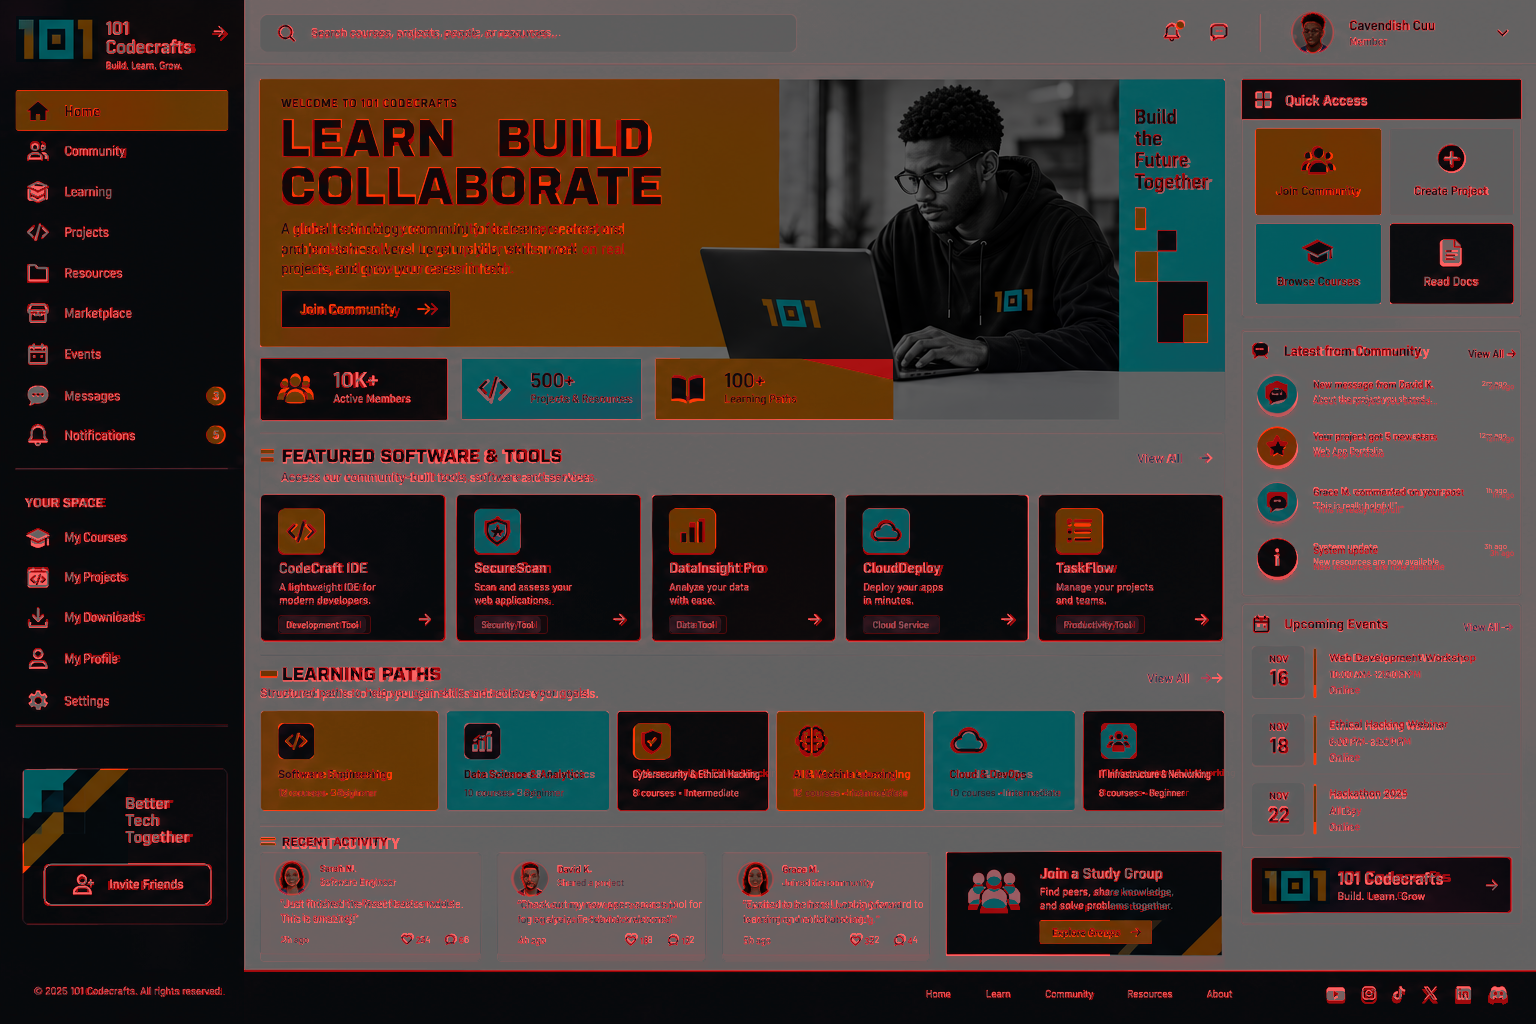
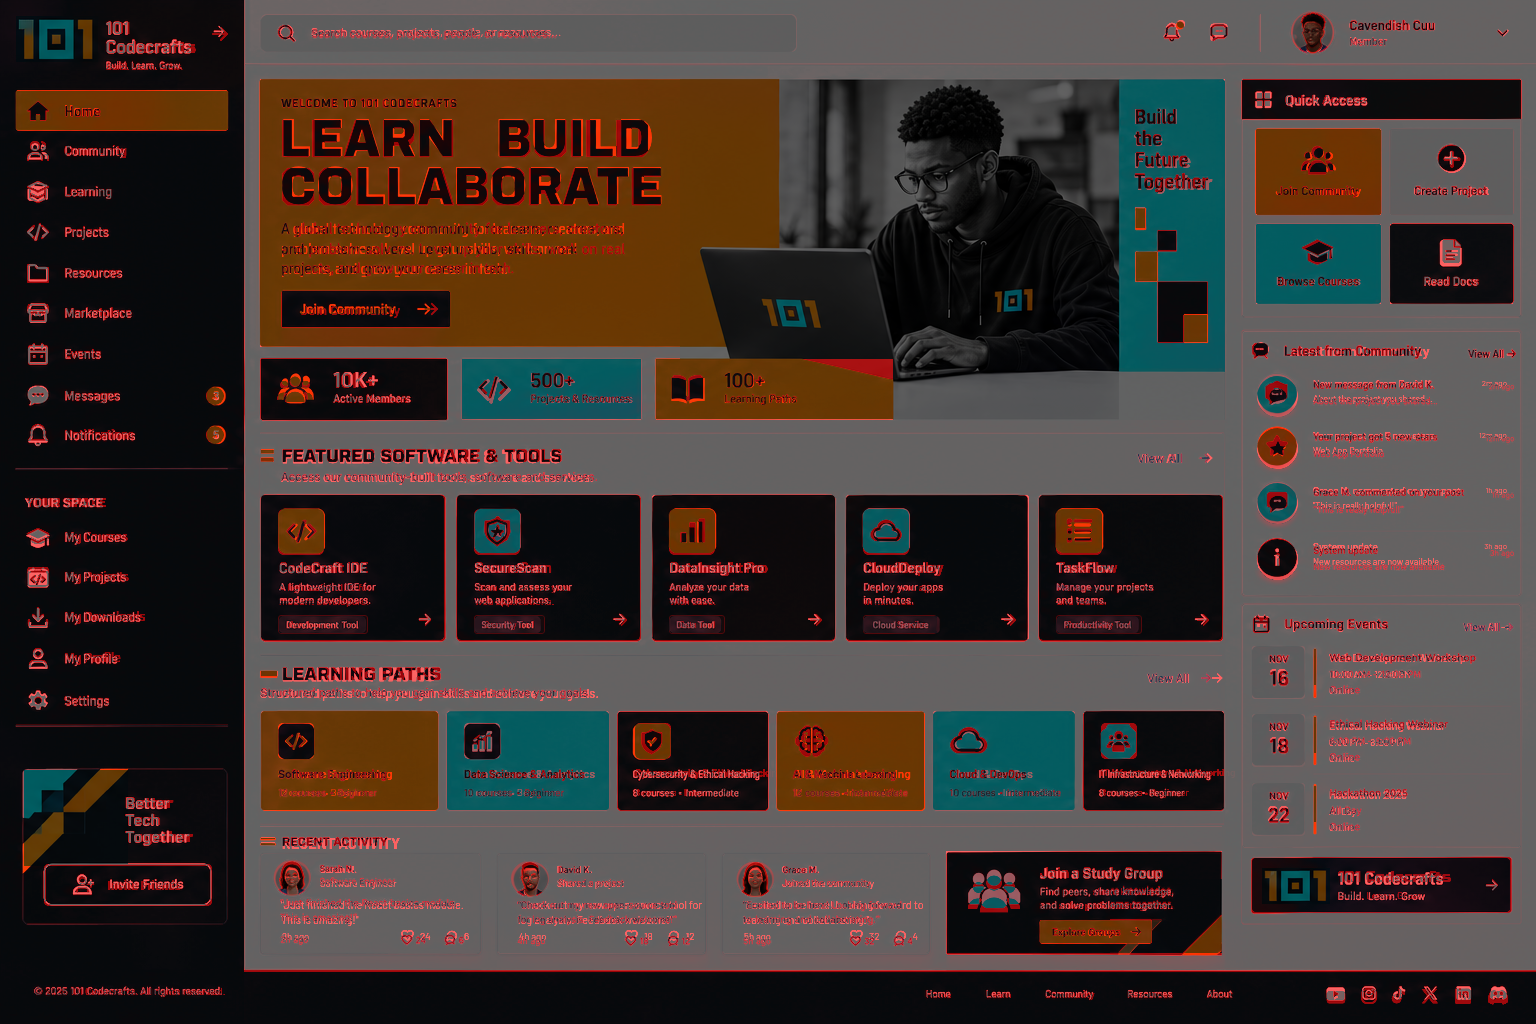
Dashboard round 7: page background + activity card geometry (SSIM 0.8169)

diff --git a/css/dashboard.css b/css/dashboard.css
@@ -1,5 +1,5 @@
 /* Members dashboard — laid out on the 1536x1024 mockup grid */
-.app{position:relative;width:1536px;height:1024px;margin:0 auto;overflow:hidden;background:#f3f5f6}
+.app{position:relative;width:1536px;height:1024px;margin:0 auto;overflow:hidden;background:#f7f8f8}
 .app>*{position:absolute}
 
 /* sidebar */
@@ -74,7 +74,7 @@
 .tool .ib svg{width:28px;height:28px}
 .tool h3{left:18px;top:63px;font-size:14.5px;font-weight:600}
 .tool p{left:18px;top:85px;font-size:10.5px;line-height:13.5px;color:#d5dce2;width:112px}
-.tool .tag{left:17px;top:120px;height:19px;padding:0 9px;border:1px solid #34424e;border-radius:3px;font-size:9.5px;line-height:17px;color:#d8e0e6;background:#16212b}
+.tool .tag{left:17px;top:120px;height:19px;padding:0 9px;border:1px solid #34424e;border-radius:3px;font-size:9px;line-height:17px;color:#d8e0e6;background:#16212b}
 .tool .go{left:156px;top:117px;width:16px;height:16px;color:#fff}
 
 /* learning paths */
@@ -89,16 +89,16 @@
 .lp.d{background:#12191f;color:#fff}.lp.d .ib{background:var(--or);color:#10181f}.lp.d small{color:#d8dee3}
 
 /* activity */
-.act{top:852px;height:110px;background:#f8fafb;border:1px solid #dfe5ea;border-radius:4px}
+.act{top:853px;height:101px;background:#f3f6f7;border:1px solid #e3e8eb;box-shadow:0 1px 3px rgba(16,24,31,.06);border-radius:4px}
 .act>*{position:absolute}
 .act img{left:13px;top:6px;width:38px;height:38px;border-radius:50%}
 .act b{left:59px;top:9px;font-size:10px;font-weight:600}
 .act .who{left:59px;top:23px;font-size:9.5px;color:#5f6d78}
 .act q{left:20px;top:44px;font-size:10.8px;line-height:14.5px;color:#2d4b62;width:186px;quotes:none}
-.act .ago{left:21px;top:80px;font-size:9.5px;color:#5f6d78}
-.act .meta{top:79px;display:flex;gap:6px;font-size:10px;color:#203040;align-items:center}
+.act .ago{left:21px;top:76px;font-size:9.5px;color:#5f6d78}
+.act .meta{top:75px;display:flex;gap:6px;font-size:10px;color:#203040;align-items:center}
 .act .meta svg{width:13px;height:13px}
-.study{left:946px;top:852px;width:276px;height:104px;background:#10181f;color:#fff;overflow:hidden}
+.study{left:946px;top:851px;width:276px;height:102px;background:#10181f;color:#fff;overflow:hidden}
 .study>*{position:absolute}
 
 /* right column */
